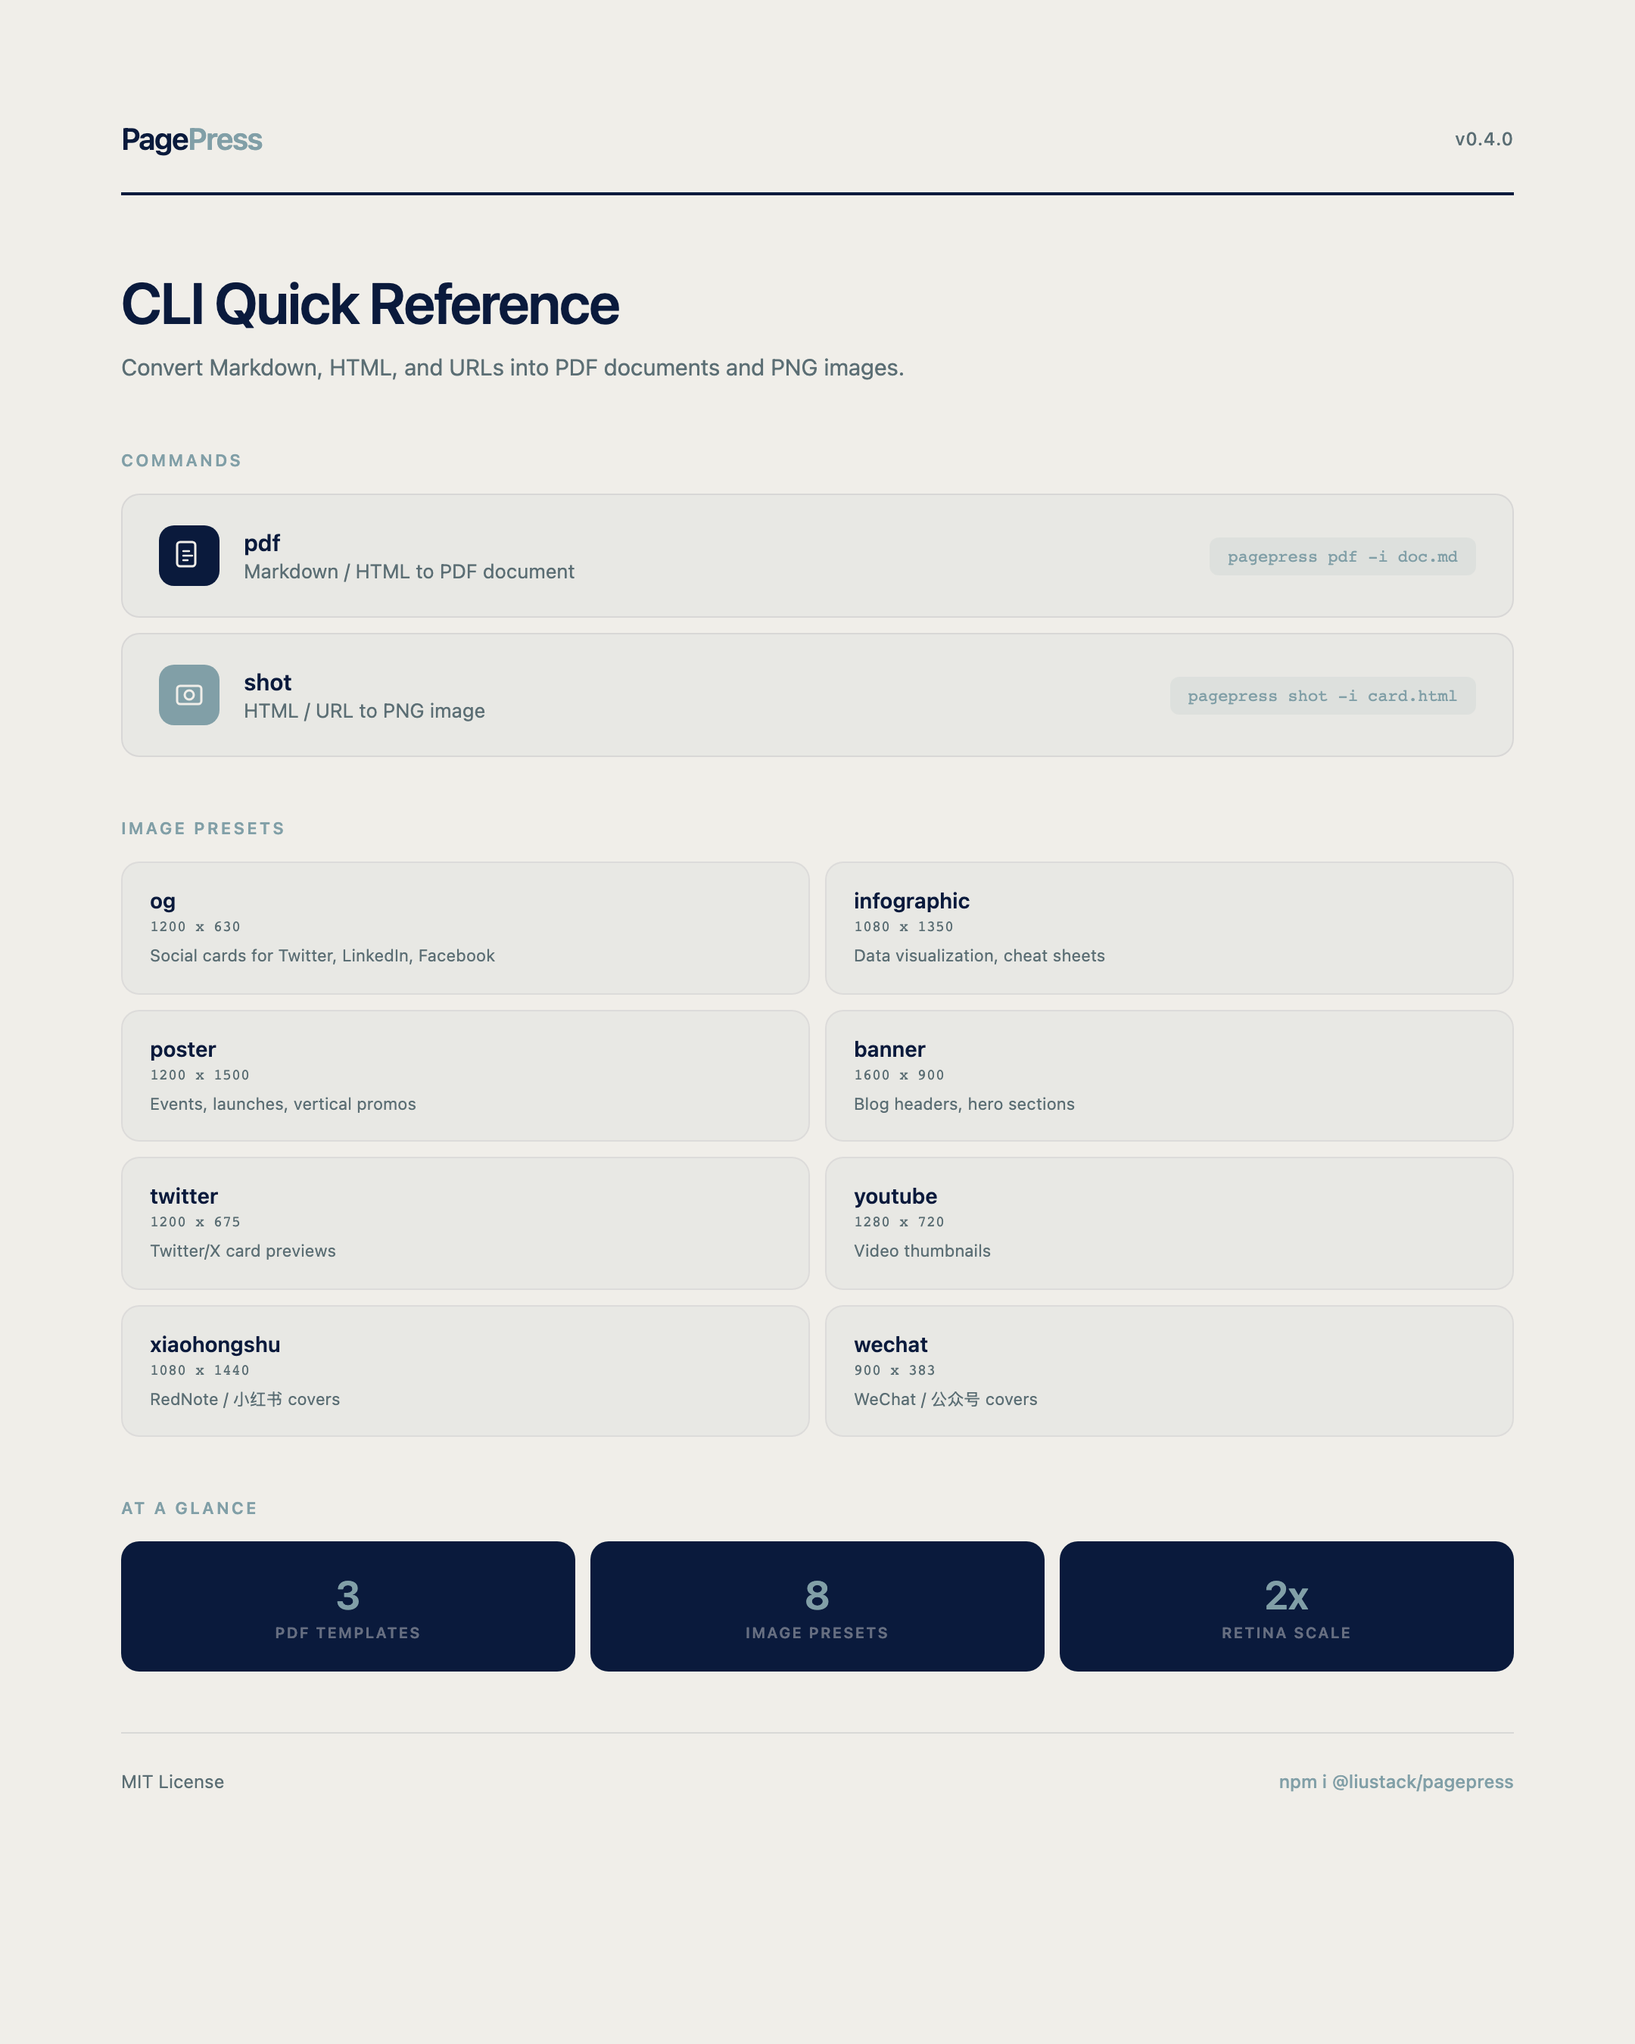
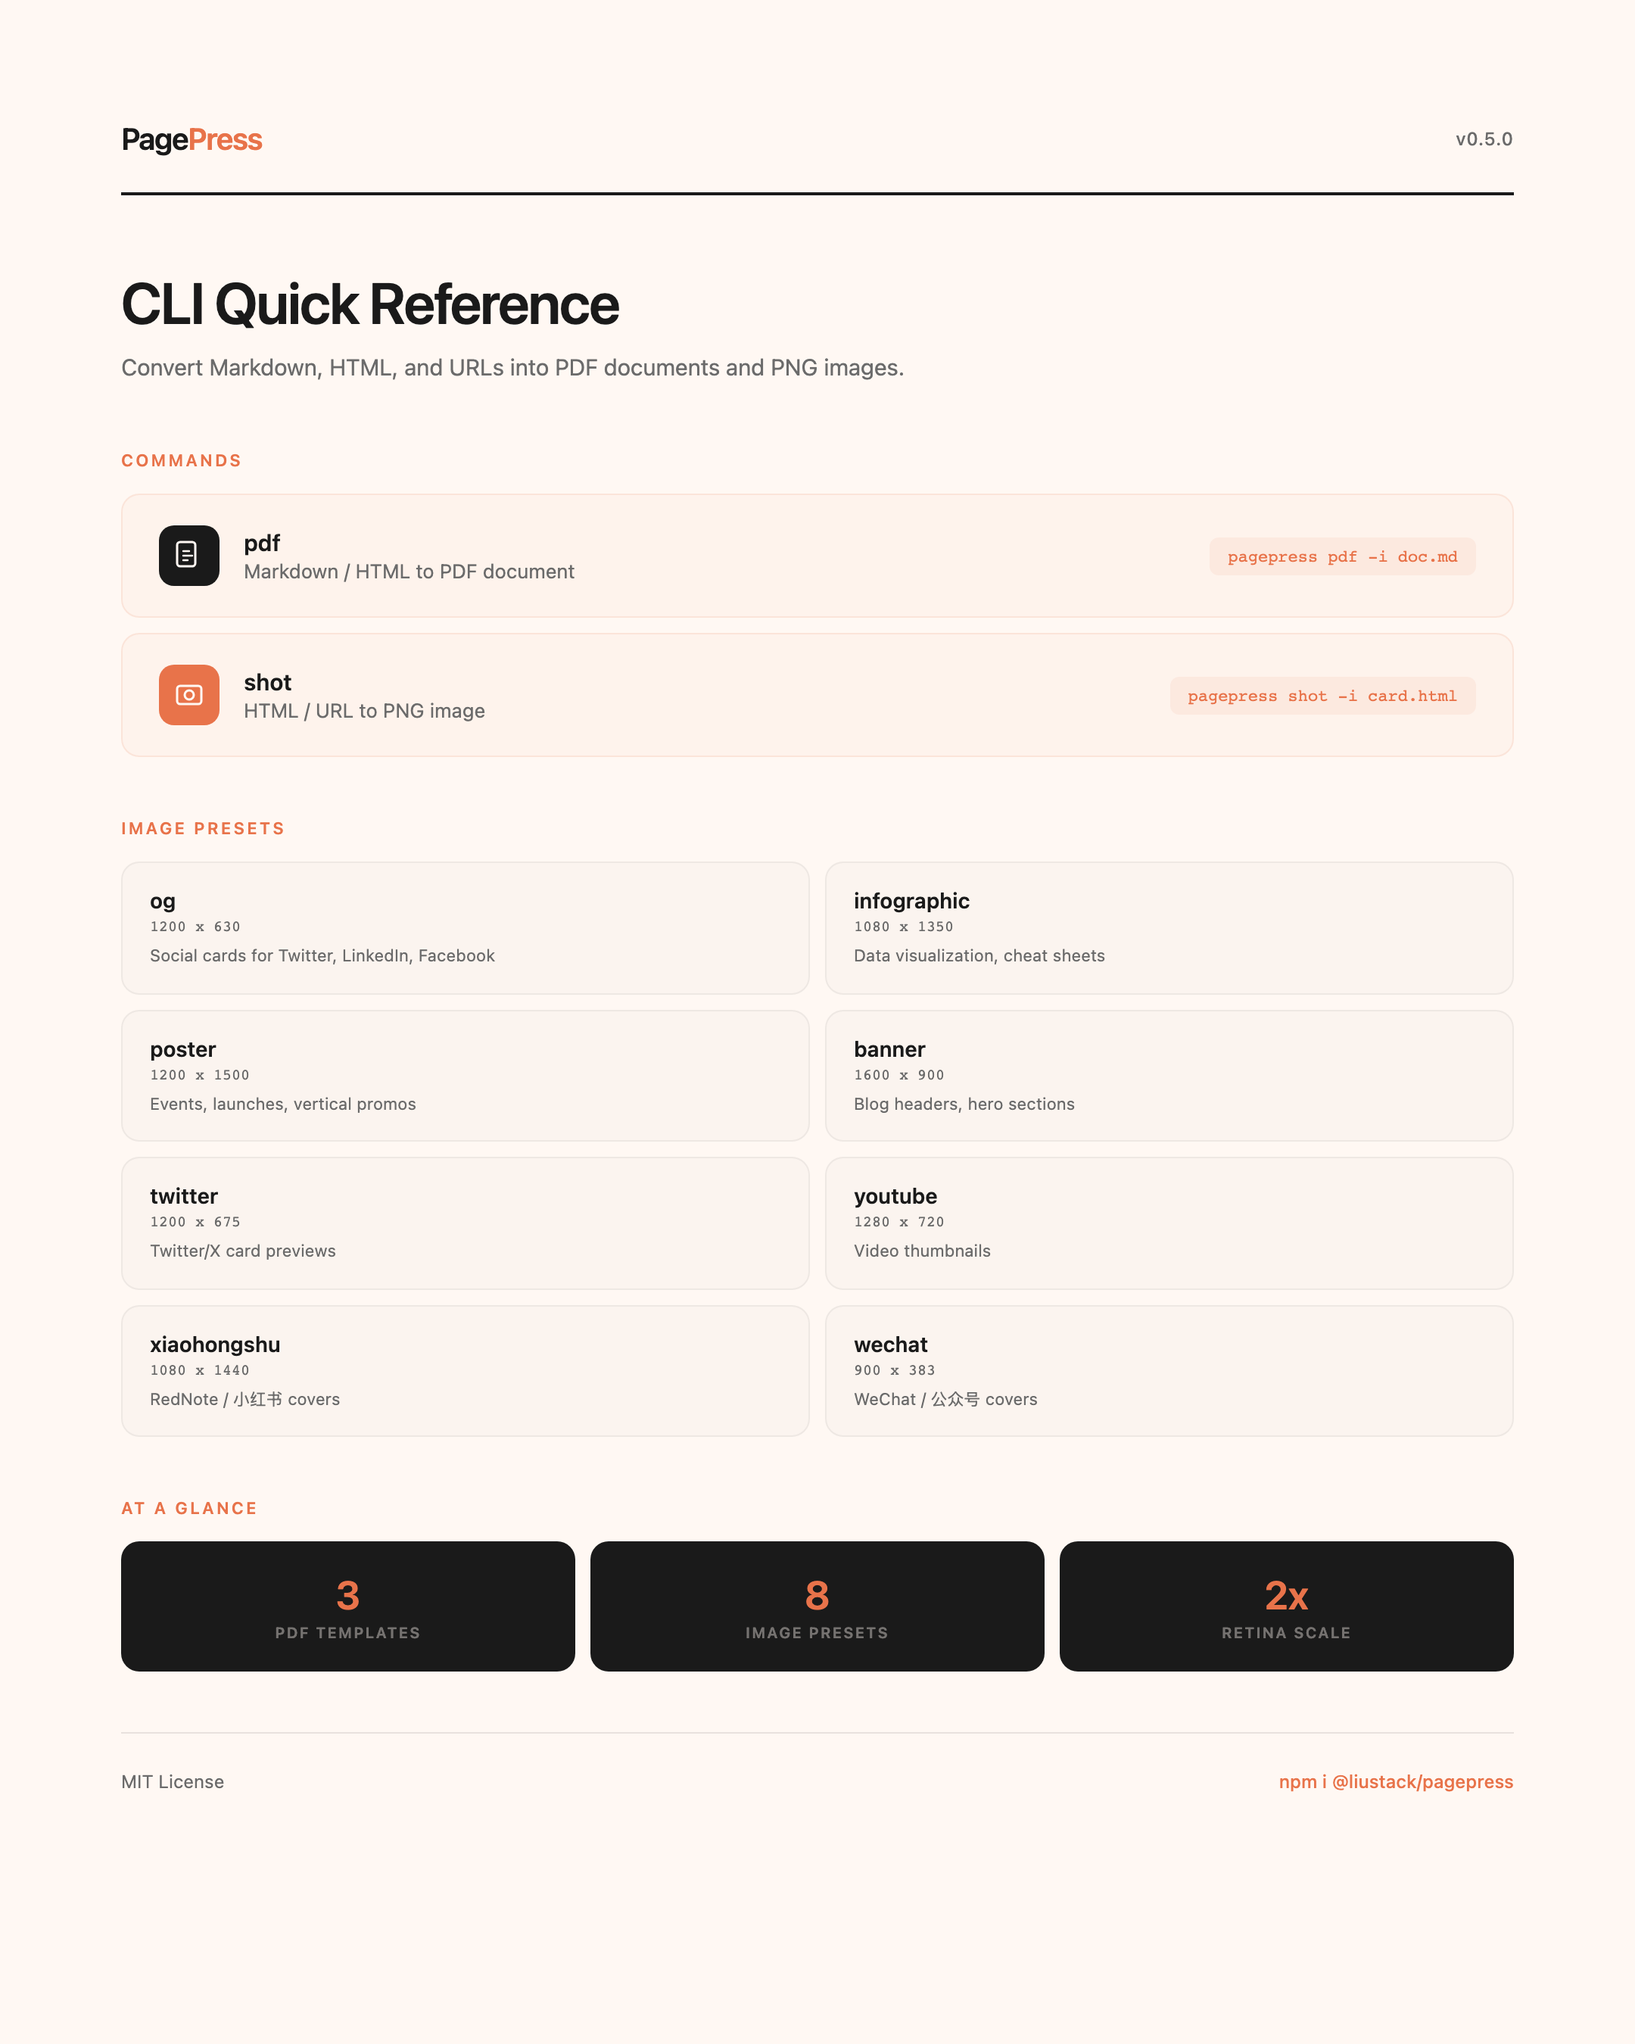
style(examples): redesign infographic and wechat cover
Infographic: adopt Claude-style warm cream + terracotta palette
WeChat: new editorial design with SVG art decorations

diff --git a/examples/shot-wechat.html b/examples/shot-wechat.html
@@ -4,123 +4,160 @@
 <meta charset="UTF-8">
 <meta name="viewport" content="width=900, height=383">
 <style>
-/* Luminous Tech: neon on dark, complementary harmony */
-/* Palette: #101014 dominant / #8A00FF secondary / #00E8FF accent / #3B3B3D neutral */
+/* Elegant Ink: warm parchment + terracotta accent, editorial feel */
+/* Palette: #F7F3EE dominant / #2C2C2C text / #C0785A terracotta / #8B7355 muted gold */
 /* Center safe zone 383x383 — all critical content inside */
 *{margin:0;padding:0;box-sizing:border-box}
 #container{
   width:900px;height:383px;
-  background:#101014;
+  background:#F7F3EE;
   font-family:'PingFang SC','Hiragino Sans GB','Microsoft YaHei',Inter,sans-serif;
   position:relative;overflow:hidden;
   display:flex;align-items:center;
   justify-content:center;
 }
 
-/* ambient glow — center focal point */
+/* subtle warm gradient overlay */
 #container::before{
-  content:'';position:absolute;
-  width:500px;height:500px;
-  top:50%;left:50%;transform:translate(-50%,-50%);
-  background:radial-gradient(circle,rgba(138,0,255,.1) 0%,rgba(0,232,255,.04) 40%,transparent 70%);
+  content:'';position:absolute;inset:0;
+  background:linear-gradient(135deg,rgba(192,120,90,.05) 0%,transparent 40%,rgba(139,115,85,.03) 100%);
   pointer-events:none;
 }
 
-/* side decorative strips — can be cropped safely */
-.side-left,.side-right{
-  position:absolute;top:0;bottom:0;width:200px;z-index:0;
-}
-.side-left{
-  left:0;
-  background:linear-gradient(90deg,rgba(138,0,255,.06),transparent);
-}
-.side-right{
-  right:0;
-  background:linear-gradient(270deg,rgba(0,232,255,.06),transparent);
-}
-
-/* thin grid lines — subtle tech feel */
-.grid-h,.grid-v{
-  position:absolute;
-  background:rgba(255,255,255,.02);
-}
-.grid-h{width:100%;height:1px;top:50%}
-.grid-v{height:100%;width:1px;left:50%}
-
 /* center safe zone content */
 .safe{
-  width:383px;
+  width:420px;
   text-align:center;
-  position:relative;z-index:1;
+  position:relative;z-index:2;
   display:flex;flex-direction:column;
   align-items:center;
 }
 
-.logo{
-  font-size:13px;font-weight:500;
-  color:rgba(255,255,255,.2);
-  letter-spacing:1px;
-  margin-bottom:24px;
+.badge{
+  font-size:10px;font-weight:600;
+  letter-spacing:2px;text-transform:uppercase;
+  color:#C0785A;
+  background:rgba(192,120,90,.08);
+  border:1px solid rgba(192,120,90,.15);
+  padding:4px 14px;border-radius:20px;
+  margin-bottom:20px;
 }
 
 h1{
-  font-size:56px;font-weight:700;
-  color:#fff;line-height:1.1;
-  letter-spacing:-2px;
-  margin-bottom:12px;
+  font-size:48px;font-weight:700;
+  color:#2C2C2C;line-height:1.15;
+  letter-spacing:-1.5px;
+  margin-bottom:10px;
 }
 h1 em{
   font-style:normal;
-  background:linear-gradient(135deg,#8A00FF,#00E8FF);
-  -webkit-background-clip:text;
-  -webkit-text-fill-color:transparent;
-  background-clip:text;
+  color:#C0785A;
 }
 
 .sub{
-  font-size:16px;font-weight:400;
-  color:rgba(255,255,255,.35);
+  font-size:14px;font-weight:400;
+  color:rgba(44,44,44,.45);
   line-height:1.6;
-  max-width:320px;
-  margin-bottom:24px;
+  max-width:340px;
+  margin-bottom:22px;
 }
 
-/* pills */
-.pills{
-  display:flex;gap:8px;flex-wrap:wrap;
-  justify-content:center;
+/* feature row */
+.features{
+  display:flex;gap:20px;
+  align-items:center;
 }
-.pill{
-  font-size:11px;font-weight:500;
-  color:rgba(255,255,255,.5);
-  background:rgba(255,255,255,.04);
-  border:1px solid rgba(255,255,255,.06);
-  padding:5px 12px;border-radius:20px;
+.feat{
+  display:flex;align-items:center;gap:6px;
 }
-.pill.accent{
-  color:#00E8FF;
-  background:rgba(0,232,255,.06);
-  border-color:rgba(0,232,255,.15);
+.feat-dot{
+  width:8px;height:8px;border-radius:50%;
+  flex-shrink:0;
 }
+.feat-dot.a{background:#C0785A}
+.feat-dot.b{background:#8B7355}
+.feat-dot.c{background:#2C2C2C}
+.feat-text{
+  font-size:12px;font-weight:500;
+  color:rgba(44,44,44,.6);
+}
+
+/* SVG art layers — decorative, can be cropped */
+.art{position:absolute;z-index:1;pointer-events:none}
 </style>
 </head>
 <body>
 <div id="container">
-  <div class="side-left"></div>
-  <div class="side-right"></div>
-  <div class="grid-h"></div>
-  <div class="grid-v"></div>
+
+  <!-- Left art: abstract document pages fanning out -->
+  <svg class="art" style="left:-10px;top:30px" width="260" height="320" viewBox="0 0 260 320" fill="none">
+    <!-- stacked pages, rotated -->
+    <g opacity=".06">
+      <rect x="60" y="40" width="120" height="160" rx="8" stroke="#2C2C2C" stroke-width="2" transform="rotate(-12 120 120)"/>
+      <rect x="70" y="35" width="120" height="160" rx="8" stroke="#2C2C2C" stroke-width="2" transform="rotate(-6 130 115)"/>
+      <rect x="80" y="30" width="120" height="160" rx="8" fill="#F7F3EE" stroke="#2C2C2C" stroke-width="2"/>
+      <!-- text lines on front page -->
+      <line x1="100" y1="70" x2="170" y2="70" stroke="#C0785A" stroke-width="3" stroke-linecap="round"/>
+      <line x1="100" y1="90" x2="180" y2="90" stroke="#2C2C2C" stroke-width="2" stroke-linecap="round"/>
+      <line x1="100" y1="105" x2="165" y2="105" stroke="#2C2C2C" stroke-width="2" stroke-linecap="round"/>
+      <line x1="100" y1="120" x2="175" y2="120" stroke="#2C2C2C" stroke-width="2" stroke-linecap="round"/>
+      <line x1="100" y1="135" x2="140" y2="135" stroke="#2C2C2C" stroke-width="2" stroke-linecap="round"/>
+    </g>
+    <!-- floating circles -->
+    <circle cx="40" cy="260" r="20" fill="none" stroke="#C0785A" stroke-width="1.5" opacity=".08"/>
+    <circle cx="55" cy="280" r="8" fill="#C0785A" opacity=".06"/>
+    <!-- arrow pointing right -->
+    <g opacity=".05">
+      <path d="M160 240 L220 240" stroke="#8B7355" stroke-width="2" stroke-linecap="round"/>
+      <path d="M212 234 L222 240 L212 246" stroke="#8B7355" stroke-width="2" stroke-linecap="round" stroke-linejoin="round"/>
+    </g>
+  </svg>
+
+  <!-- Right art: abstract image/camera frame + geometric shapes -->
+  <svg class="art" style="right:-10px;top:20px" width="260" height="340" viewBox="0 0 260 340" fill="none">
+    <!-- image frame with mountain/sun scene -->
+    <g opacity=".06">
+      <rect x="60" y="60" width="150" height="110" rx="10" stroke="#2C2C2C" stroke-width="2"/>
+      <!-- sun -->
+      <circle cx="170" cy="95" r="12" stroke="#C0785A" stroke-width="1.5"/>
+      <!-- mountains -->
+      <path d="M60 150 L105 100 L135 130 L160 95 L210 150" stroke="#8B7355" stroke-width="2" stroke-linejoin="round"/>
+      <!-- camera aperture icon below -->
+      <circle cx="135" cy="210" r="24" stroke="#2C2C2C" stroke-width="2"/>
+      <circle cx="135" cy="210" r="10" stroke="#2C2C2C" stroke-width="1.5"/>
+      <line x1="135" y1="186" x2="135" y2="196" stroke="#2C2C2C" stroke-width="1.5"/>
+      <line x1="135" y1="224" x2="135" y2="234" stroke="#2C2C2C" stroke-width="1.5"/>
+      <line x1="111" y1="210" x2="121" y2="210" stroke="#2C2C2C" stroke-width="1.5"/>
+      <line x1="149" y1="210" x2="159" y2="210" stroke="#2C2C2C" stroke-width="1.5"/>
+    </g>
+    <!-- scattered dots -->
+    <circle cx="200" cy="50" r="4" fill="#C0785A" opacity=".07"/>
+    <circle cx="220" cy="70" r="2.5" fill="#8B7355" opacity=".06"/>
+    <circle cx="50" cy="280" r="3" fill="#C0785A" opacity=".06"/>
+    <!-- diamond shapes -->
+    <g opacity=".05">
+      <path d="M80 290 L92 278 L104 290 L92 302 Z" stroke="#8B7355" stroke-width="1.5"/>
+      <path d="M180 270 L188 262 L196 270 L188 278 Z" stroke="#C0785A" stroke-width="1.5"/>
+    </g>
+  </svg>
 
   <div class="safe">
-    <div class="logo">PAGEPRESS</div>
-    <h1>Markdown 转<br><em>PDF & 图片</em></h1>
-    <p class="sub">开源 CLI · AI Agent 友好<br>三套模板 · 八种图片预设</p>
-    <div class="pills">
-      <div class="pill accent">PDF</div>
-      <div class="pill accent">OG 卡片</div>
-      <div class="pill">海报</div>
-      <div class="pill">横幅</div>
-      <div class="pill">信息图</div>
+    <div class="badge">Open Source CLI</div>
+    <h1>Page<em>Press</em></h1>
+    <p class="sub">一个命令行工具，将 Markdown 和 HTML<br>转换为精美的 PDF 文档与 PNG 图片</p>
+    <div class="features">
+      <div class="feat">
+        <div class="feat-dot a"></div>
+        <div class="feat-text">3 套模板</div>
+      </div>
+      <div class="feat">
+        <div class="feat-dot b"></div>
+        <div class="feat-text">8 种预设</div>
+      </div>
+      <div class="feat">
+        <div class="feat-dot c"></div>
+        <div class="feat-text">Retina 2x</div>
+      </div>
     </div>
   </div>
 </div>

diff --git a/examples/shot-infographic.html b/examples/shot-infographic.html
@@ -4,46 +4,46 @@
 <meta charset="UTF-8">
 <meta name="viewport" content="width=1080, height=1350">
 <style>
-/* Arctic Frost: minimal crisp, monochromatic + single accent */
-/* Palette: #F0EEE9 dominant / #819FA7 secondary / #0A1A3C accent / #5B6E74 text */
+/* Claude Warm: warm cream + terracotta accent, clean and friendly */
+/* Palette: #FFF8F3 dominant / #E8734A accent / #1A1A1A text / #6B6B6B secondary text */
 /* F-pattern, high info density, Gestalt proximity grouping */
 *{margin:0;padding:0;box-sizing:border-box}
 #container{
   width:1080px;height:1350px;
-  background:#F0EEE9;
+  background:#FFF8F3;
   padding:80px;
   font-family:Inter,-apple-system,BlinkMacSystemFont,'Helvetica Neue',sans-serif;
-  color:#0A1A3C;
+  color:#1A1A1A;
 }
 
 .header{
   display:flex;justify-content:space-between;align-items:center;
   margin-bottom:48px;padding-bottom:24px;
-  border-bottom:2px solid #0A1A3C;
+  border-bottom:2px solid #1A1A1A;
 }
 .logo{font-size:20px;font-weight:600;letter-spacing:-.5px}
-.logo em{font-style:normal;color:#819FA7}
-.ver{font-size:12px;font-weight:500;color:#5B6E74;letter-spacing:.5px}
+.logo em{font-style:normal;color:#E8734A}
+.ver{font-size:12px;font-weight:500;color:#6B6B6B;letter-spacing:.5px}
 
 h1{
   font-size:38px;font-weight:600;
   letter-spacing:-1px;line-height:1.2;margin-bottom:8px;
 }
 .subtitle{
-  font-size:15px;color:#5B6E74;
+  font-size:15px;color:#6B6B6B;
   line-height:1.5;margin-bottom:44px;
 }
 .section-label{
   font-size:11px;font-weight:600;
   letter-spacing:1.5px;text-transform:uppercase;
-  color:#819FA7;margin-bottom:16px;
+  color:#E8734A;margin-bottom:16px;
 }
 
 /* command cards */
 .commands{display:flex;flex-direction:column;gap:10px;margin-bottom:40px}
 .cmd{
-  background:rgba(10,26,60,.03);
-  border:1px solid rgba(10,26,60,.08);
+  background:rgba(232,115,74,.04);
+  border:1px solid rgba(232,115,74,.12);
   border-radius:12px;padding:20px 24px;
   display:flex;align-items:center;gap:16px;
 }
@@ -52,59 +52,59 @@ h1{
   display:flex;align-items:center;justify-content:center;
   flex-shrink:0;
 }
-.cmd-dot.pdf{background:#0A1A3C}
-.cmd-dot.shot{background:#819FA7}
+.cmd-dot.pdf{background:#1A1A1A}
+.cmd-dot.shot{background:#E8734A}
 .cmd-name{font-size:15px;font-weight:600;margin-bottom:2px}
-.cmd-desc{font-size:13px;color:#5B6E74}
+.cmd-desc{font-size:13px;color:#6B6B6B}
 .cmd-code{
   margin-left:auto;
   font-family:'SF Mono',ui-monospace,monospace;
-  font-size:11px;color:#819FA7;
-  background:rgba(129,159,167,.1);
+  font-size:11px;color:#E8734A;
+  background:rgba(232,115,74,.08);
   padding:6px 12px;border-radius:6px;white-space:nowrap;
 }
 
 /* presets grid — 2x4 to show all 8 */
 .presets{display:grid;grid-template-columns:1fr 1fr;gap:10px;margin-bottom:40px}
 .preset{
-  background:rgba(10,26,60,.03);
-  border:1px solid rgba(10,26,60,.06);
+  background:rgba(26,26,26,.02);
+  border:1px solid rgba(26,26,26,.06);
   border-radius:12px;padding:16px 18px;
 }
 .preset-name{font-size:14px;font-weight:600;margin-bottom:2px}
 .preset-size{
   font-family:'SF Mono',ui-monospace,monospace;
-  font-size:10px;color:#5B6E74;margin-bottom:6px;
+  font-size:10px;color:#6B6B6B;margin-bottom:6px;
 }
-.preset-desc{font-size:11px;color:#5B6E74;line-height:1.5}
+.preset-desc{font-size:11px;color:#6B6B6B;line-height:1.5}
 
 /* stats bar */
 .stats{display:flex;gap:10px;margin-bottom:40px}
 .stat{
   flex:1;
-  background:#0A1A3C;color:#F0EEE9;
+  background:#1A1A1A;color:#FFF8F3;
   border-radius:12px;padding:20px;text-align:center;
 }
-.stat-val{font-size:26px;font-weight:600;margin-bottom:4px;color:#819FA7}
+.stat-val{font-size:26px;font-weight:600;margin-bottom:4px;color:#E8734A}
 .stat-label{
   font-size:10px;font-weight:600;
   letter-spacing:1px;text-transform:uppercase;
-  color:rgba(240,238,233,.4);
+  color:rgba(255,248,243,.4);
 }
 
 .footer{
-  padding-top:24px;border-top:1.5px solid rgba(10,26,60,.1);
+  padding-top:24px;border-top:1.5px solid rgba(26,26,26,.1);
   display:flex;justify-content:space-between;align-items:center;
 }
-.footer-text{font-size:12px;color:#5B6E74}
-.footer-link{font-size:12px;color:#819FA7;font-weight:500}
+.footer-text{font-size:12px;color:#6B6B6B}
+.footer-link{font-size:12px;color:#E8734A;font-weight:500}
 </style>
 </head>
 <body>
 <div id="container">
   <div class="header">
     <div class="logo">Page<em>Press</em></div>
-    <div class="ver">v0.4.0</div>
+    <div class="ver">v0.5.0</div>
   </div>
 
   <h1>CLI Quick Reference</h1>
@@ -114,7 +114,7 @@ h1{
   <div class="commands">
     <div class="cmd">
       <div class="cmd-dot pdf">
-        <svg width="20" height="20" viewBox="0 0 20 20" fill="none"><rect x="2" y="1" width="12" height="16" rx="2" stroke="#F0EEE9" stroke-width="1.5"/><path d="M6 7h4M6 10h6M6 13h3" stroke="#F0EEE9" stroke-width="1.2" stroke-linecap="round"/></svg>
+        <svg width="20" height="20" viewBox="0 0 20 20" fill="none"><rect x="2" y="1" width="12" height="16" rx="2" stroke="#FFF8F3" stroke-width="1.5"/><path d="M6 7h4M6 10h6M6 13h3" stroke="#FFF8F3" stroke-width="1.2" stroke-linecap="round"/></svg>
       </div>
       <div>
         <div class="cmd-name">pdf</div>
@@ -124,7 +124,7 @@ h1{
     </div>
     <div class="cmd">
       <div class="cmd-dot shot">
-        <svg width="20" height="20" viewBox="0 0 20 20" fill="none"><rect x="2" y="4" width="16" height="12" rx="2" stroke="#F0EEE9" stroke-width="1.5"/><circle cx="10" cy="10" r="3" stroke="#F0EEE9" stroke-width="1.5"/></svg>
+        <svg width="20" height="20" viewBox="0 0 20 20" fill="none"><rect x="2" y="4" width="16" height="12" rx="2" stroke="#FFF8F3" stroke-width="1.5"/><circle cx="10" cy="10" r="3" stroke="#FFF8F3" stroke-width="1.5"/></svg>
       </div>
       <div>
         <div class="cmd-name">shot</div>
